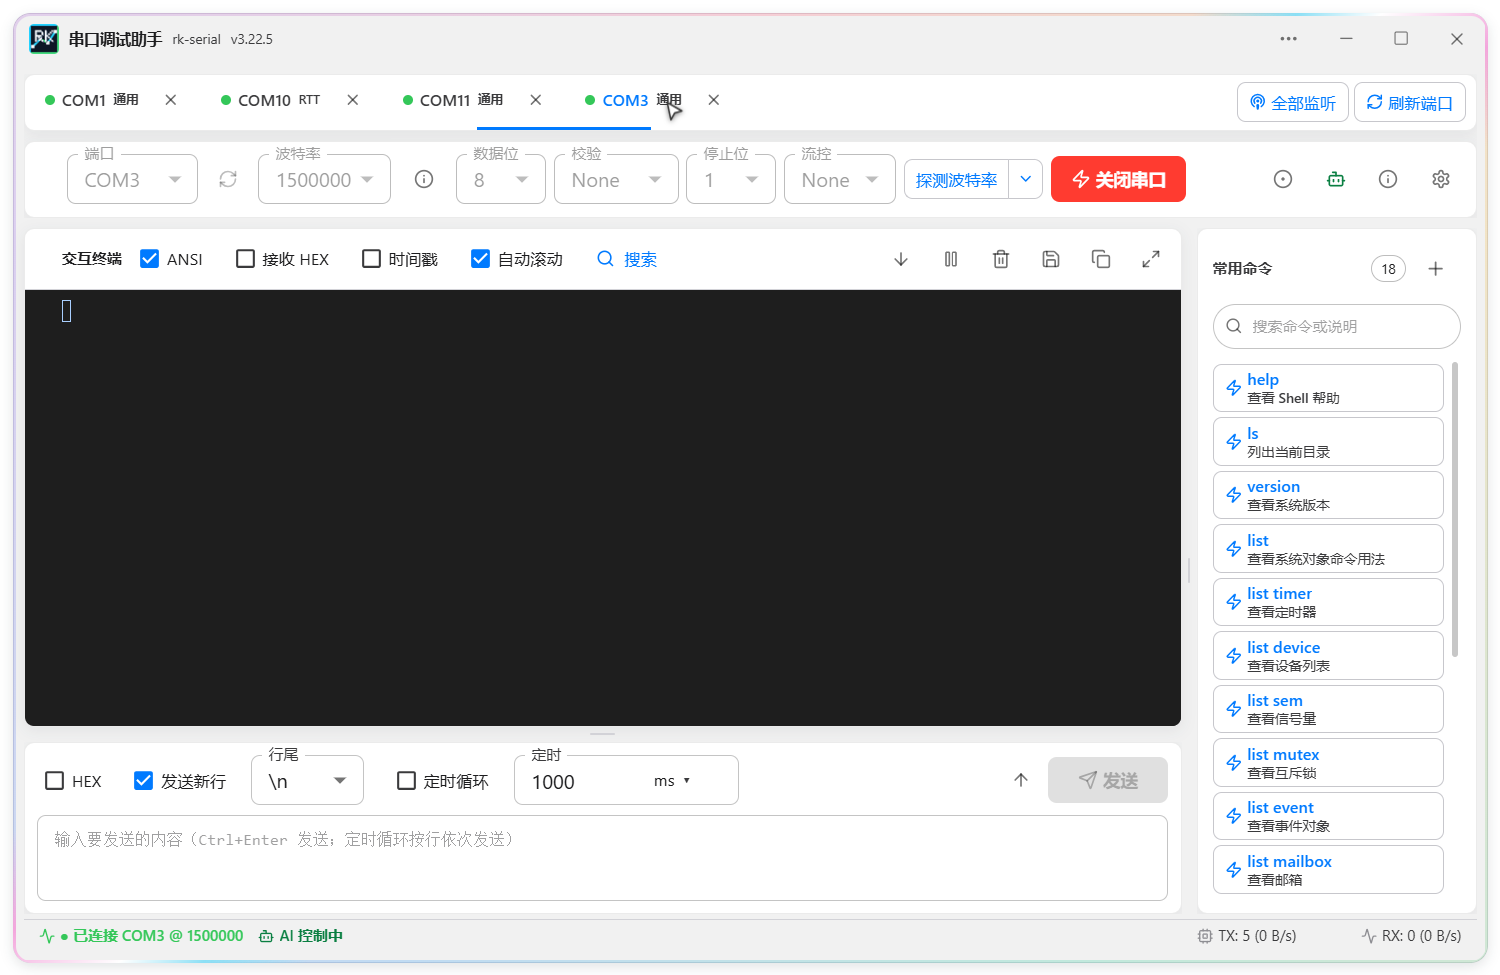
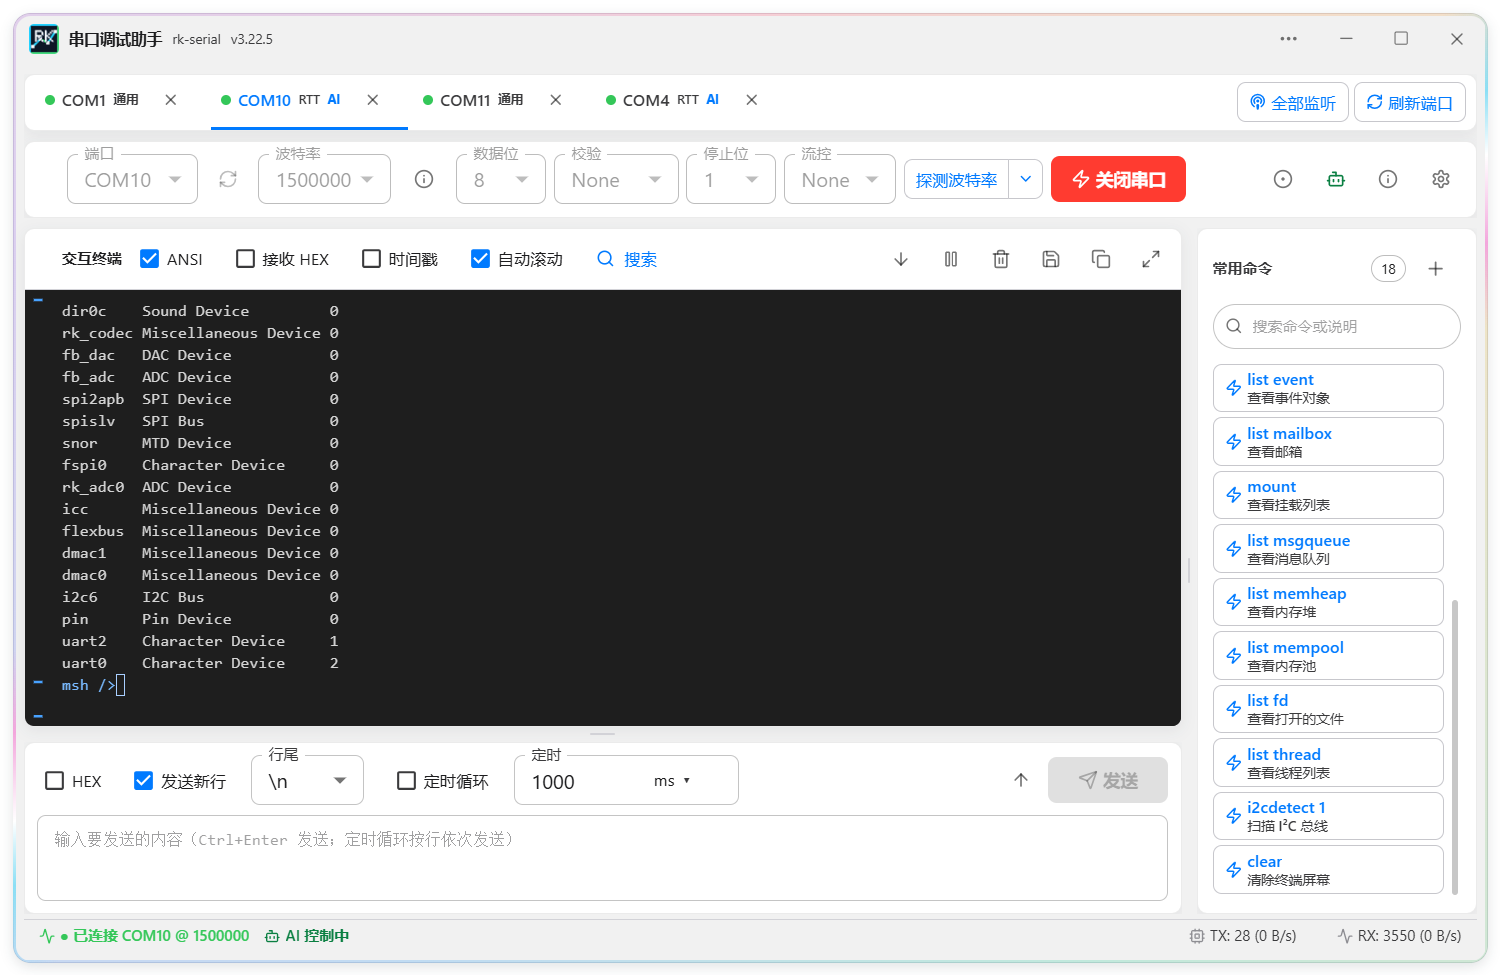
docs: show serial coordination and log-layer benchmarks

diff --git a/README.en.md b/README.en.md
@@ -8,6 +8,8 @@
 
 <p align="center">
   <a href="#download-and-install">Download</a> ·
+  <a href="#agent-control-demo">Demo</a> ·
+  <a href="#architecture-and-log-layers">Architecture</a> ·
   <a href="README.md">简体中文</a>
 </p>
 
@@ -15,9 +17,19 @@
 
 rk-serial grew out of board bring-up and debugging at Rockchip. It gives engineers and AI agents a shared desktop workspace for serial debugging.
 
-- **Commands from multiple agents can interleave on one port.** Agents can read the same log concurrently with independent cursors. Control requests queue per port, so only one participant controls a port at a time. An agent can also hold control across a sequence of operations.
-- **An engineer and an agent can compete for the same port.** The GUI owns the serial connection and reports when an agent is holding control. An engineer can resume sending once control is released. Each port is coordinated independently.
-- **Agent activity can be difficult to observe.** Engineers can follow traffic and logs in the shared terminal during an agent task. The Agent Connection panel shows registered tasks, who holds control, and which requests are waiting.
+| Workflow | What can go wrong with a typical setup | How rk-serial helps |
+| --- | --- | --- |
+| Multiple agents share a port | Separate agents compete to open the device. Shared scripts can interleave commands and replies. | Agents read concurrently with independent cursors. Writes queue in order per port, and an agent can hold control for a sequence of operations. |
+| An engineer and an agent work on the same port | A command entered in the terminal can interrupt an agent procedure. | The desktop owns the connection. It reports the port as busy while an agent holds control, then lets the engineer resume sending. Each port is coordinated independently. |
+| An engineer follows agent activity | When an agent uses a separate script, the engineer usually has to wait for its report. | The terminal keeps showing traffic and logs. The port tab shows AI activity. Agent Connection shows registered tasks, the current holder, and the queue. |
+| A rare change is buried in a long log | Sending the whole log or repeatedly reading its tail fills the context with duplicate output. | L0 keeps the original evidence, L1 indexes templates and parameters, and L2 returns counts, changes, and references. Agents can expand the evidence that matters. |
+| An intermittent issue needs a recording or a repeatable check | Copying terminal output loses context. Ad hoc scripts need their own recording, polling, and retry logic. | Serial Record can run by duration, loop count, or capacity and export evidence. Saved batches and checks use request IDs to avoid resending on retries. |
+
+## Agent control demo
+
+COM10 stays connected and displays real RT-Thread output. The capture shows the agent claiming control, reading the log, and releasing control.
+
+![Live capture of an agent claiming COM10, reading the log, and releasing control](assets/agent-demo-en.gif)
 
 ## Download and install
 
@@ -34,18 +46,42 @@ The links below download **v3.22.5** directly. On Ubuntu, we recommend the `.deb
 
 Check for updates from the About dialog. The app tries a verified delta update when a matching previous package is available and falls back to the full package when needed. [All releases](https://github.com/LiWeny16/rk-serial-releases/releases)
 
+## Architecture and log layers
+
+Engineers use the GUI and agents use the bridge to work through the same desktop app. The serial core handles I/O, while the app coordinates access per port. The terminal continues to show traffic as agents query the log layers.
+
+![Architecture diagram showing the desktop app coordinating UART access for the GUI and agent bridge, and L0, L1, and L2 serving log queries](assets/architecture-en.png)
+
+| Layer | What it stores or returns |
+| --- | --- |
+| **L0 · Original traffic** | Keeps raw bytes, decoded text, direction, and timestamps per port. Evidence references identify text or bytes to retrieve. |
+| **L1 · Rebuildable compressed index** | Groups repeated structures by template and keeps parameter values, counts, and L0 locations. Completed Record segments can persist a compressed index. Queries can scan L0 when an index is unavailable. |
+| **L2 · Agent queries and evidence** | `log-query` returns match counts, groups or changes, and evidence references within a byte budget. Responses report completeness and pagination. `log-expand` retrieves the requested L0 evidence. |
+
+### Token comparison
+
+The table compares passing log text directly to an agent with the responses from rk-serial for the same sample. Both sides were counted using `cl100k_base`.
+
+| Measured task | Send log text to the agent | rk-serial responses | Fewer tokens |
+| --- | ---: | ---: | ---: |
+| **Find one rare change among 100,001 error lines** (v3.22.5) | All matching lines · **1,000,010** | Query and evidence expansion · **367** | **99.96%** |
+| **Search about 50 MiB of archived logs** (v3.13 benchmark) | Entire log · **13,516,805** | 29 compact query pages · **6,665** | **99.95%** |
+
+Both benchmarks used synthetic samples. In the first, 100,000 matching lines repeated the same error and one had a different code. The query searched for `ERROR` and expanded the rare result to verify its original bytes. It used the L0 scan fallback. Actual token usage depends on the log, query, and tokenizer.
+
 ## Debugging features
 
 | Workflow | What you can do |
 | --- | --- |
 | **Move between Linux and RT-Thread (RTT)** | Detect or set the system type per port. Browse the Linux, RT-Thread, and general command catalog, then add and reorder shortcuts in a shared list. |
-| **Send commands and repeat tests** | Get suggestions from send history and use quick commands, timed loops, HEX, or configurable line endings. Each port keeps its own draft. |
-| **Capture traffic and investigate intermittent issues** | Start a per-port **Serial Record**, set time or capacity limits, and optionally run a command loop. Review, search, and export the recording for later analysis. |
-| **Run a complete workflow with an agent** | The bundled Agent bridge supports port configuration, connections, reads and writes, quick commands, recording, archive search and export, batches, and reusable checks. Engineers and agents operate and observe serial ports through the same GUI. |
+| **Watch multiple ports at once** | Each port has its own terminal and connection status. Use ANSI, HEX, timestamps, search, pause, log export, and baud-rate probing. |
+| **Send commands and repeat tests** | Get suggestions from send history and use quick commands, timed line-by-line loops, HEX, or configurable line endings. Each port keeps its own draft. |
+| **Capture traffic and investigate intermittent issues** | Start a per-port **Serial Record**, set time, loop count, or capacity rules, and optionally send commands in a loop. Review, search, and export recordings. |
+| **Run a complete workflow with an agent** | The bundled bridge supports port configuration, connections, reads and writes, incremental queries, quick commands, recording, archive search and export, batches, and reusable checks. It can also coordinate an explicit handoff to an external flashing tool. |
 
 ## Screenshots
 
-![rk-serial workspace with serial port tabs, the interactive terminal, the send panel, and quick commands](assets/workspace.png)
+![rk-serial workspace showing live RT-Thread output on COM10 with the AI badge on its tab](assets/workspace.png)
 
 | Linux / RT-Thread command catalog | Agent Connection |
 | :---: | :---: |

diff --git a/README.md b/README.md
@@ -8,16 +8,28 @@
 
 <p align="center">
   <a href="#下载与安装">下载</a> ·
+  <a href="#agent-控口实拍">控口演示</a> ·
+  <a href="#架构与日志分层">架构</a> ·
   <a href="README.en.md">English</a>
 </p>
 
 ## 解决了什么痛点
 
-rk-serial 来自 Rockchip 同事在板卡开发与联调中的实际需求。它把工程师和 Agent 接入同一个可观察的串口工作台，解决三个常见问题。
+rk-serial 来自 Rockchip 同事在板卡开发与联调中的实际需求。工程师和 AI Agent 在同一个桌面工作台使用串口，并能随时核对操作和日志。
 
-- **多个 Agent 调试同一个串口，命令容易交叉。** 多个 Agent 可以同时读取日志，各自保留读取位置。需要控制串口时，按端口排队，每次只授予一个控制者。多步调试可以在同一次控制权内完成。
-- **工程师和 Agent 同时操作，容易抢占或误发。** GUI 统一持有串口。Agent 占用时，人工发送会收到端口忙提示，可以在控制权释放后继续操作。不同串口独立协调。
-- **Agent 接管后，工程师难以知道发生了什么。** 人和 Agent 共用同一个可见终端，工程师可以继续查看收发记录和日志。「Agent 连接」还能查看已登记的调试任务、当前控制者和等待状态。
+| 调试场景 | 常见方案遇到的问题 | rk-serial 如何解决 |
+| --- | --- | --- |
+| 多个 Agent 共用一个串口 | 各自打开设备会争抢串口，共用脚本写入又容易让命令和回显交叉。 | 多个 Agent 可同时读，各自保留日志游标。写操作按端口先进先出，多步任务可在同一次控口期间完成。 |
+| 工程师与 Agent 同时操作 | 工程师在终端输入的命令可能插入 Agent 正在执行的流程。 | 桌面端统一持有串口。Agent 控口时，人工发送会收到端口忙提示，释放后可继续。不同串口独立协调。 |
+| 跟进 Agent 的调试过程 | Agent 用独立脚本读写时，工程师通常只能等它转述日志和结果。 | 终端持续显示收发内容，端口标签显示 AI 状态；「Agent 连接」可查看已登记任务、持有者及排队状态。 |
+| 在大段日志里找一次异常 | 整段日志或反复读取的尾部会堆满上下文，稀有变化容易埋在重复输出里。 | L0 保留原始证据，L1 按模板和参数建立索引，L2 按条件返回计数、变化和证据引用，需核对时再展开原文。 |
+| 录下偶发问题或复跑同一验证 | 手工复制终端易丢上下文，临时脚本还要自行处理保存、轮询和重试。 | 串口 Record 可按时长、轮数或容量运行并导出证据；批处理和验收用例支持复用，借助请求 ID 避免误重发。 |
+
+## Agent 控口实拍
+
+COM10 保持连接，终端显示实际 RT-Thread 输出。动图依次展示 Agent 取得控制权、读取日志以及释放控制权。
+
+![实拍动图：Agent 获取 COM10 控制权，读取日志，随后释放控制权](assets/agent-demo-zh.gif)
 
 ## 下载与安装
 
@@ -34,18 +46,42 @@ rk-serial 来自 Rockchip 同事在板卡开发与联调中的实际需求。它
 
 已安装用户可通过「关于 → 检查更新」获取新版。旧安装包匹配时，应用会优先尝试经过校验的差量更新，必要时回退到完整安装包。[查看所有版本](https://github.com/LiWeny16/rk-serial-releases/releases)
 
+## 架构与日志分层
+
+工程师通过 GUI 操作串口，Agent 通过桥接使用同一个桌面端。串口核心负责读写，桌面端按端口协调控制权。终端持续显示收发内容，Agent 可查询分层后的日志。
+
+![rk-serial 架构图：工程师与 Agent 通过桌面端共享 UART，TX/RX 日志经过 L0、L1 和 L2 供 Agent 查询](assets/architecture-zh.png)
+
+| 层级 | 保存或返回的内容 |
+| --- | --- |
+| **L0 · 原始收发记录** | 按端口保留原始字节、解码文本、收发方向与时间。需要查证时可按引用读取对应原文或字节。 |
+| **L1 · 可重建的压缩索引** | 将重复的结构归为模板，保留参数、计数和指向 L0 的位置。已完成的 Record 分段可保存压缩索引，索引不可用时可扫描 L0。 |
+| **L2 · Agent 查询与证据** | `log-query` 按条件和字节预算返回命中数、分组或变化以及证据引用，并标明完整性和分页状态。`log-expand` 沿引用取回需要的 L0 证据。 |
+
+### Token 对比
+
+对同一个样本，比较普通 Agent 流程中直接读取文本的成本，与 rk-serial 检索后返回的内容。表中均使用 `cl100k_base` 实际分词。
+
+| 实测场景 | 直接把日志交给 Agent | rk-serial 返回 | 减少的 tokens |
+| --- | ---: | ---: | ---: |
+| **定位 100,001 行错误日志中的一次罕见变化**（v3.22.5） | 所有命中行 · **1,000,010** | 查询与原文展开，共两次响应 · **367** | **99.96%** |
+| **检索约 50 MiB 的历史日志**（v3.13 基准） | 整份日志 · **13,516,805** | 29 页精简查询响应 · **6,665** | **99.95%** |
+
+两个场景均为合成样本。第一项有 100,000 条相同错误和 1 条不同错误码，查询只按 `ERROR` 匹配并从结果展开该条原始证据。此次通过 L0 扫描回退完成，节省来自按问题取证；实际用量随日志重复度、查询范围和模型分词器而变化。
+
 ## 日常调试能力
 
 | 场景 | rk-serial 的做法 |
 | --- | --- |
 | **在 Linux 和 RT-Thread（RTT）之间切换** | 按串口识别系统类型，也支持手动标记。命令大全提供 Linux、RT-Thread 和通用命令，可搜索用法、一键加入共享快捷列表并拖动排序。 |
-| **快速发送和重复测试** | 从发送历史联想命令，支持快捷命令、定时循环发送、HEX 和可配置行尾。多个串口各自保留发送草稿。 |
-| **录制串口和复盘** | 使用 **串口 Record** 按串口录制，用时长或容量控制任务，也能按设定循环发送。录制可在 GUI 查看，支持检索和导出，便于复盘偶发问题。 |
-| **让 Agent 执行完整调试流程** | 内置 Agent bridge 覆盖串口配置与连接、读写、快捷命令、录制、归档检索和导出、批处理与验收用例。Agent 与工程师在同一 GUI 中操作和观察串口。 |
+| **同时观察多个串口** | 多端口标签独立显示连接状态和终端。支持 ANSI、HEX、时间戳、搜索、暂停、日志导出和波特率探测。 |
+| **快速发送和重复测试** | 从发送历史联想命令，支持快捷命令、定时分行循环发送、HEX 和可配置行尾。多个串口各自保留发送草稿。 |
+| **录制串口和复盘** | 使用 **串口 Record** 按串口录制，可设置时长、轮数和容量策略，也能同时循环发送。录制可在 GUI 查看，支持检索和导出。 |
+| **让 Agent 执行完整调试流程** | 内置桥接覆盖串口配置与连接、读写、增量查询、快捷命令、录制、归档检索和导出、批处理与验收用例。需要外部烧录器接管同一个端口时，可以显式交接。 |
 
 ## 界面预览
 
-![rk-serial 主工作台，包含串口标签、交互终端、发送区与常用命令](assets/workspace.png)
+![rk-serial 主工作台，COM10 的实时终端显示 RT-Thread 输出，标签标记为 AI 控制中](assets/workspace.png)
 
 | Linux / RT-Thread 命令大全 | Agent 连接 |
 | :---: | :---: |
